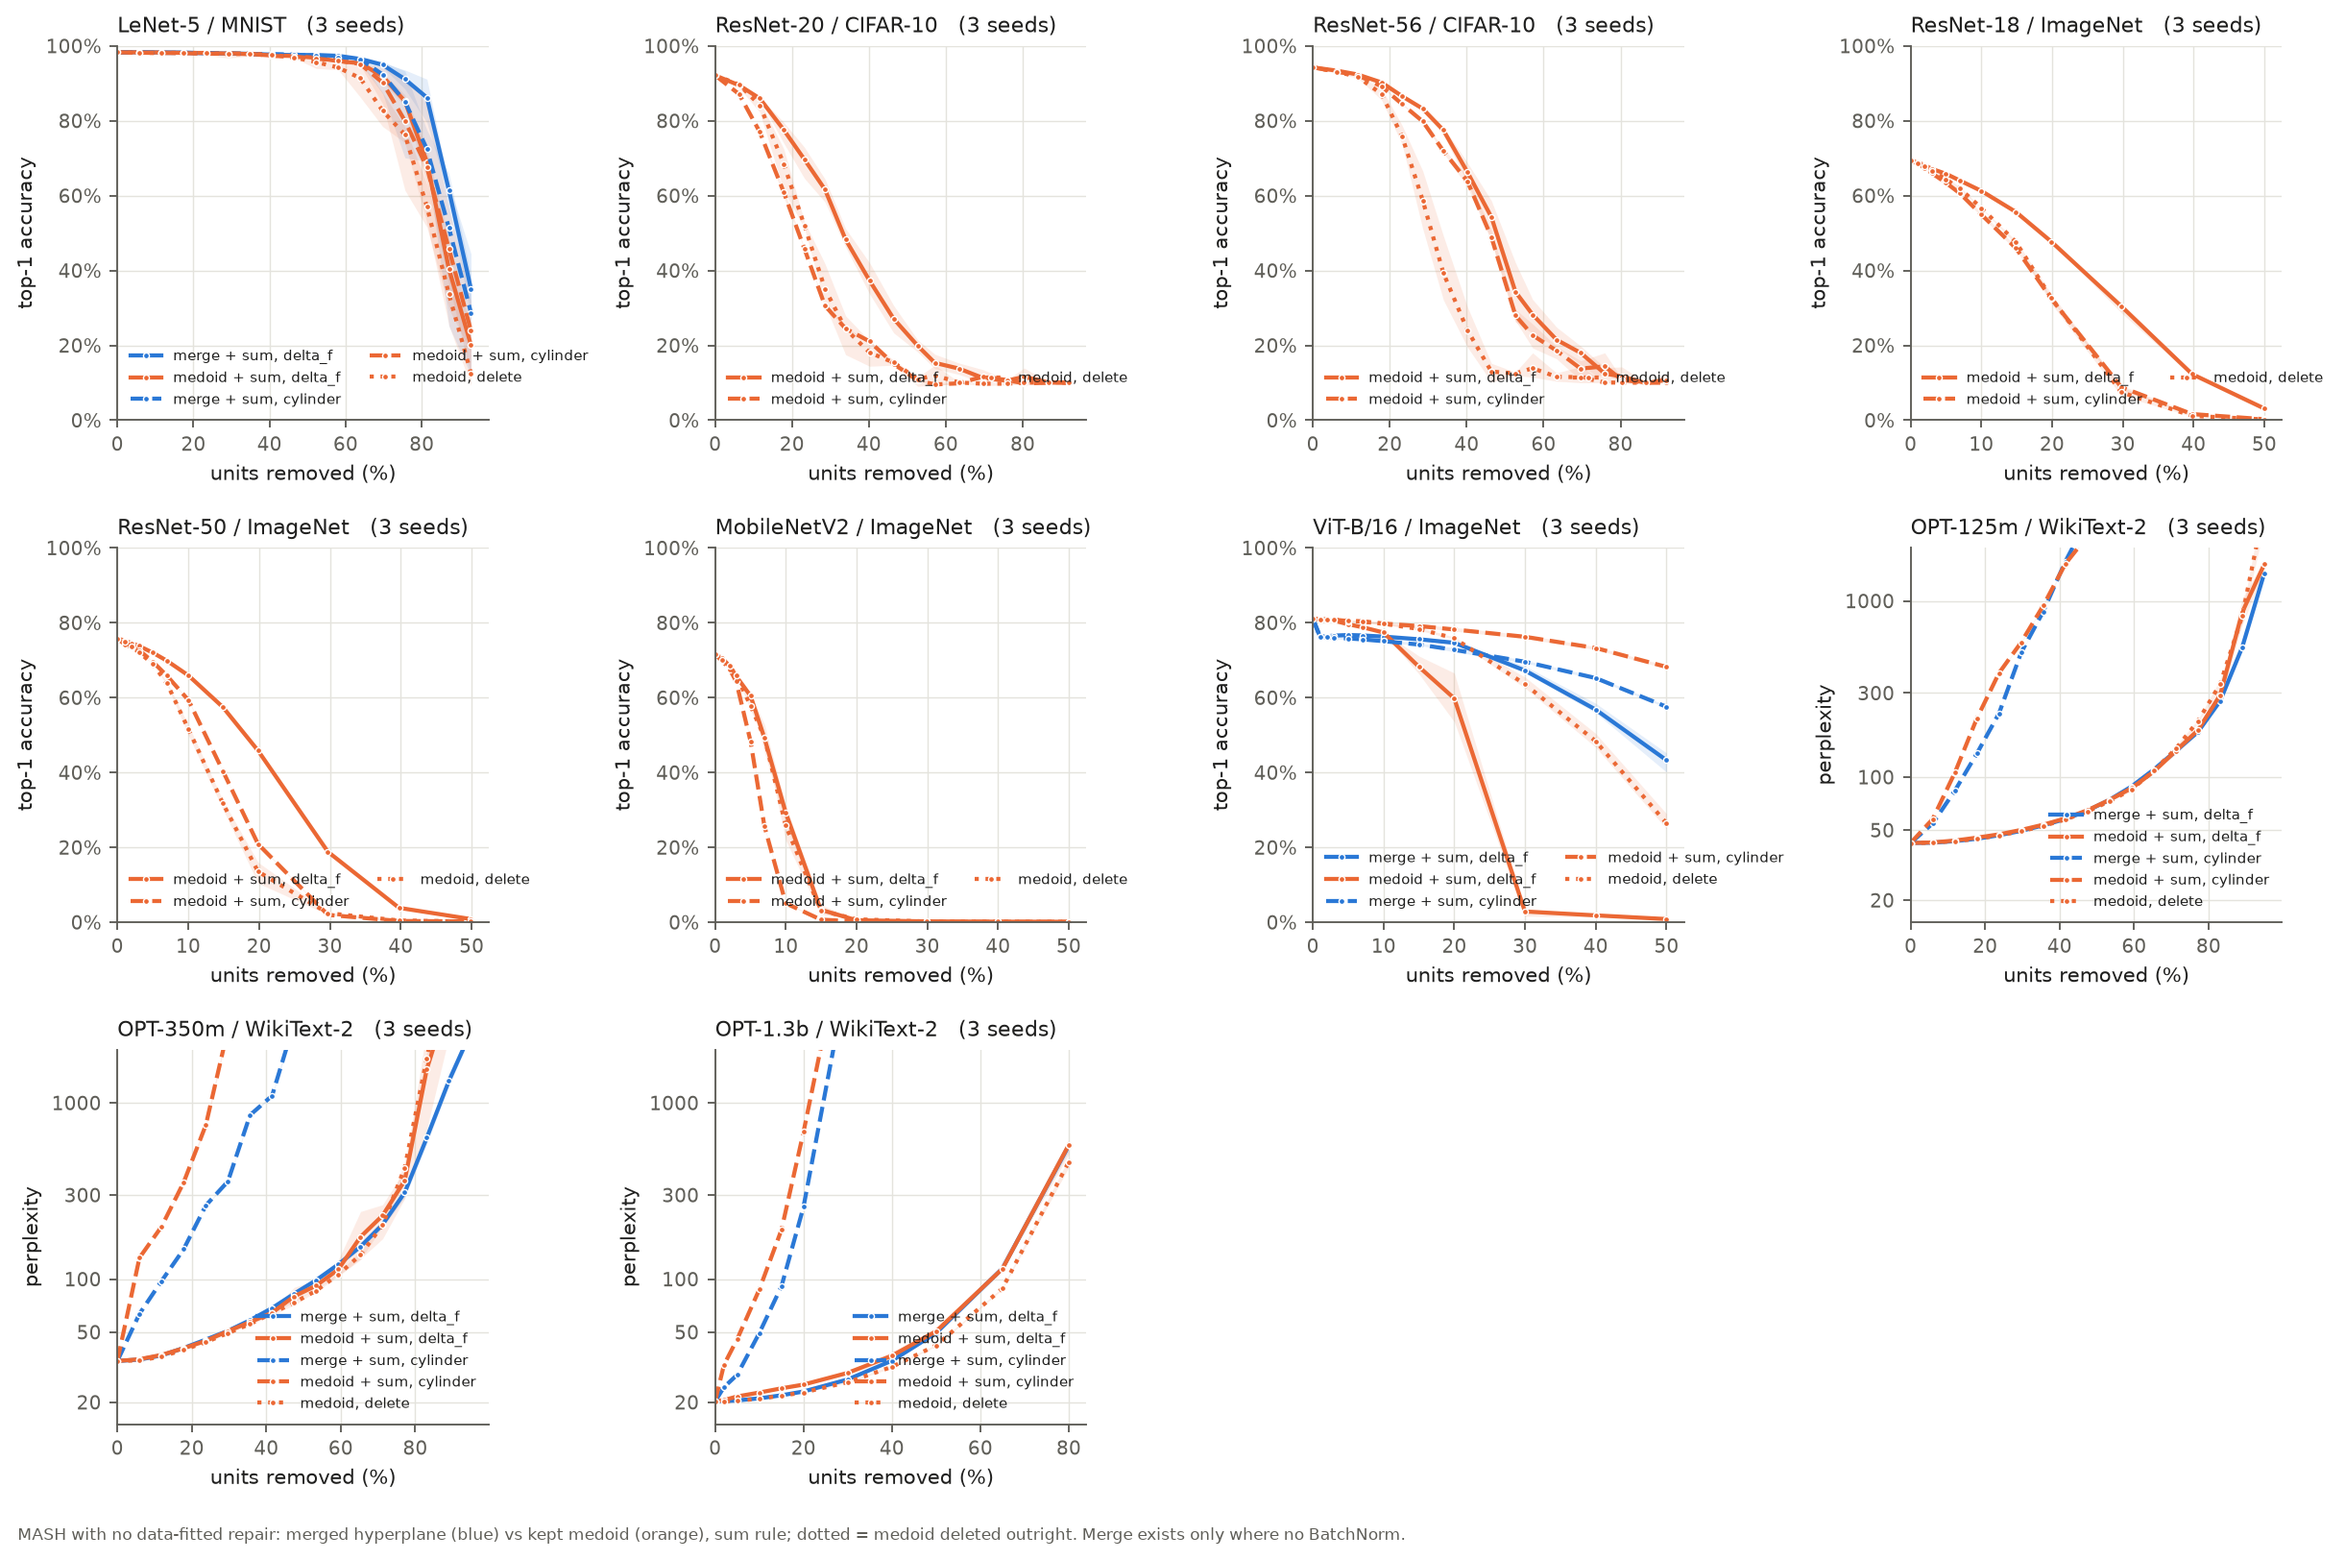
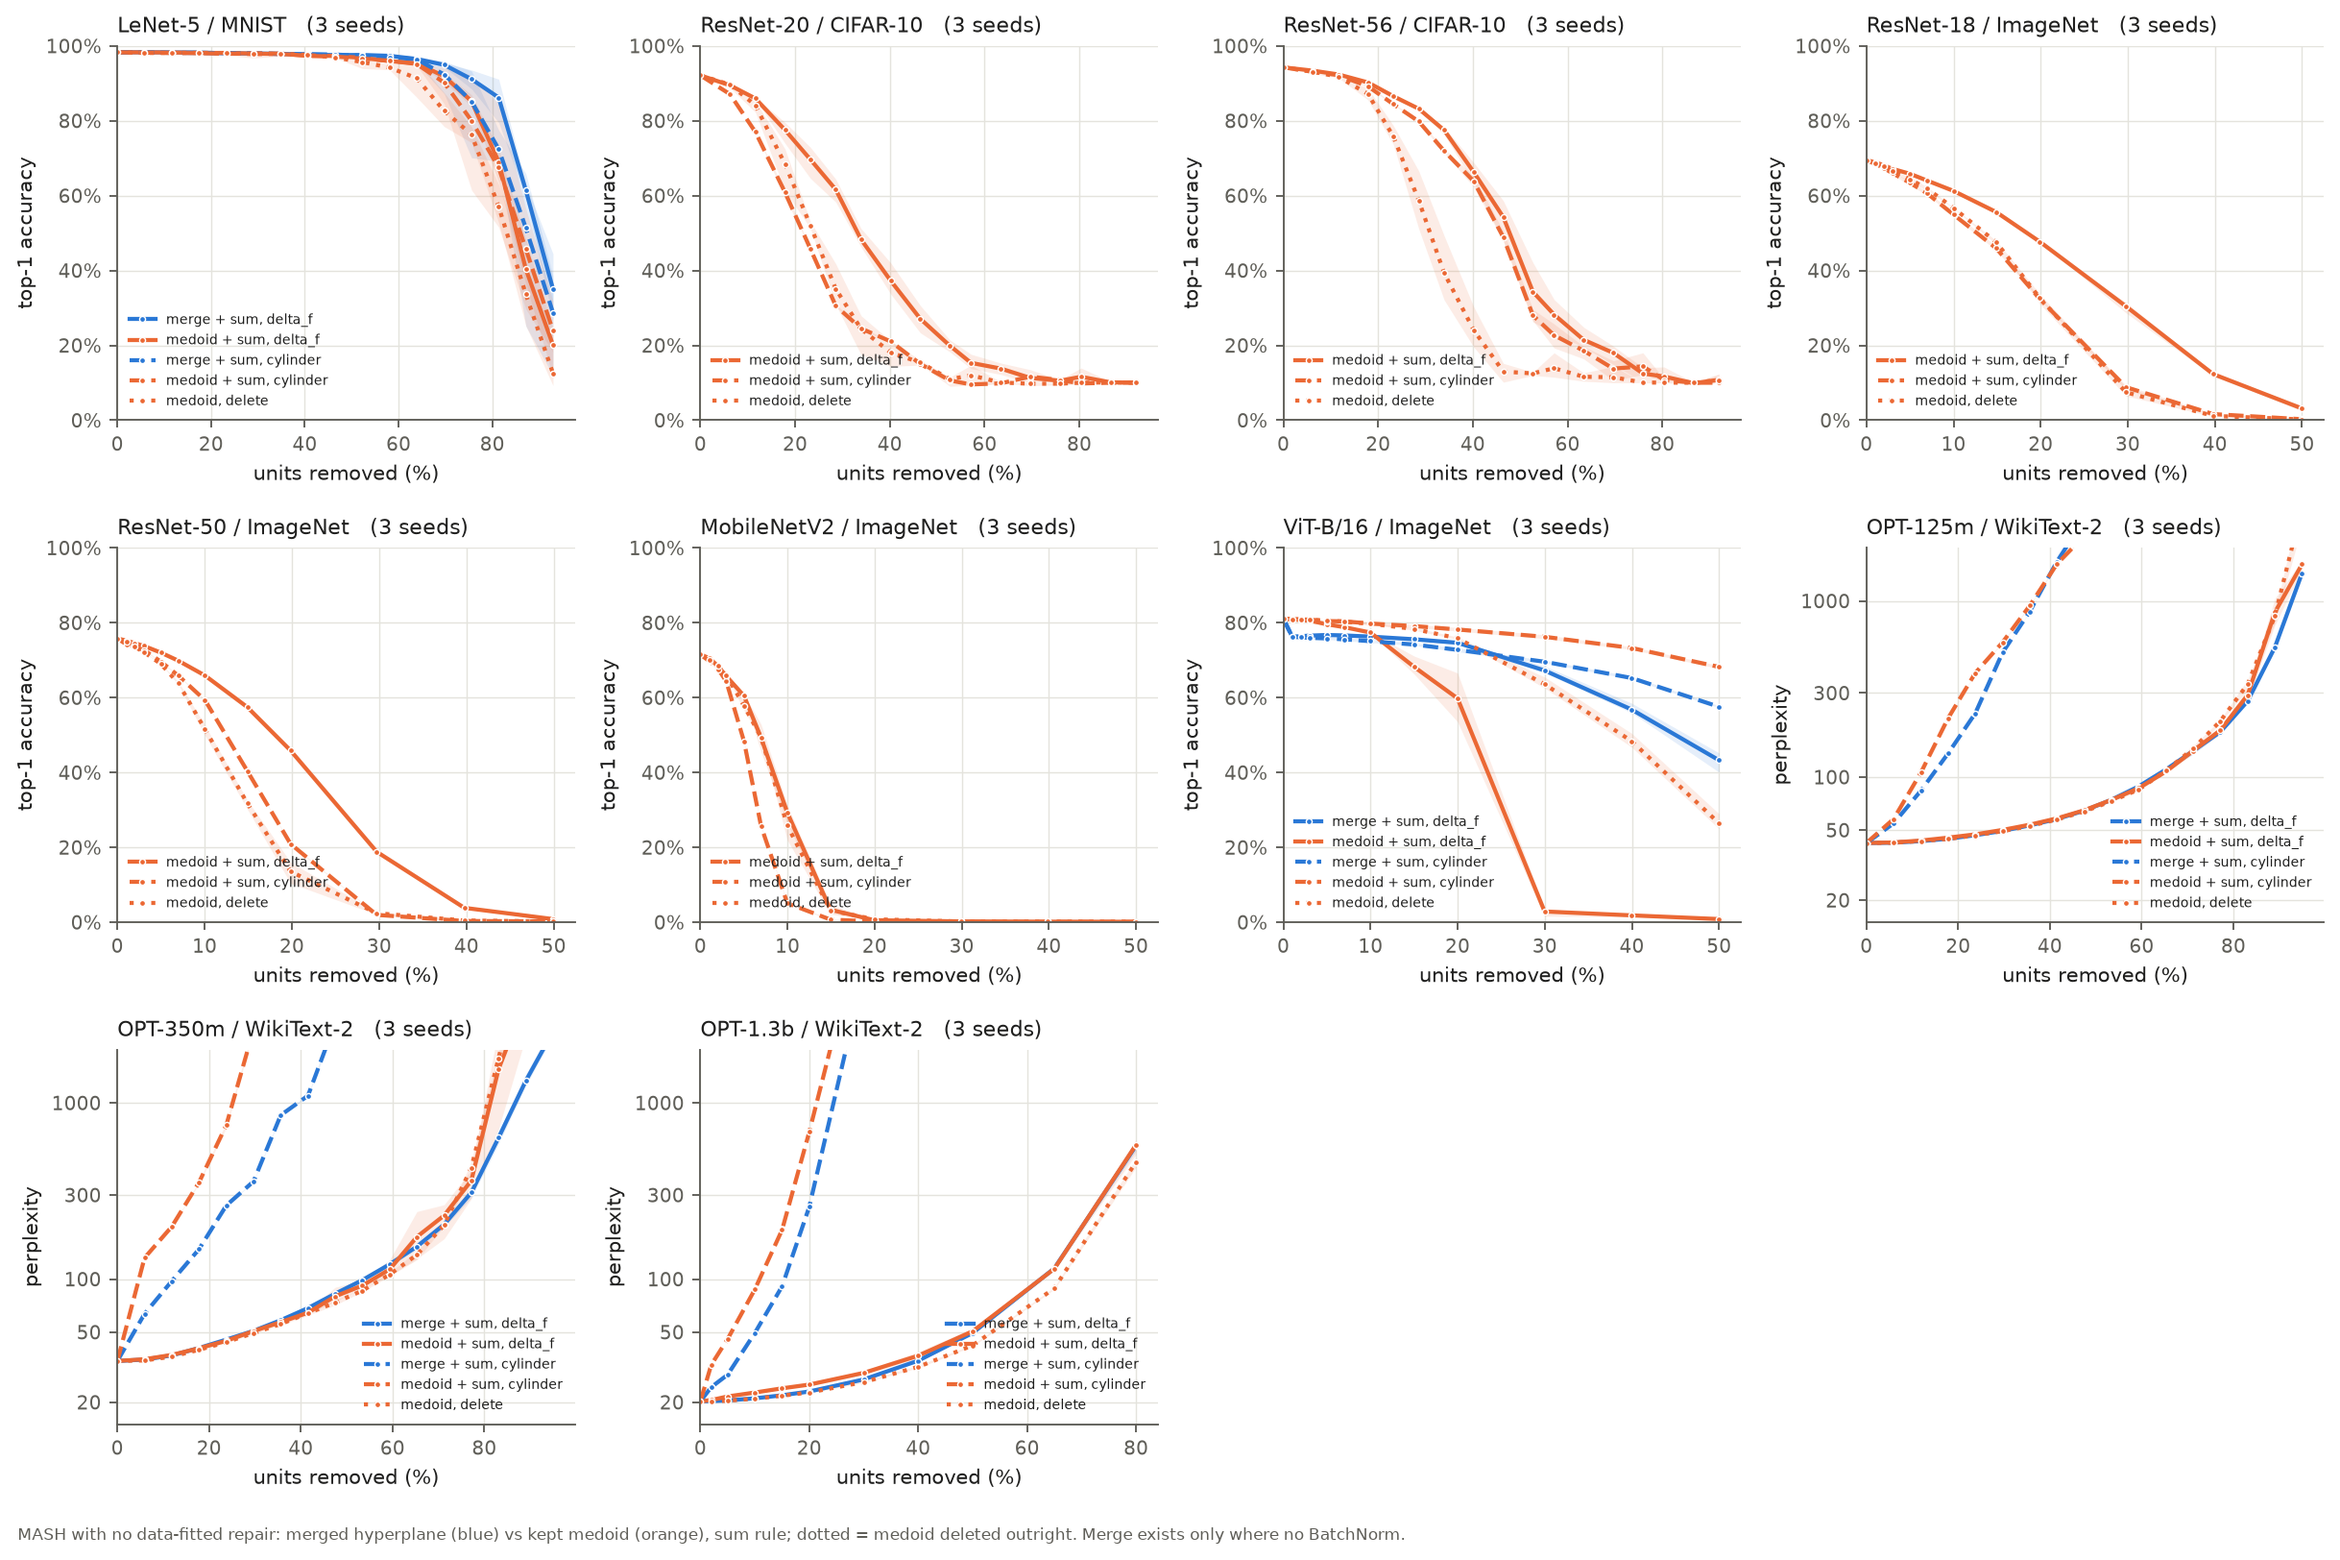
Preliminary figures with the full-row repair and drop ablation

diff --git a/paper/preliminary/make_preliminary.py b/paper/preliminary/make_preliminary.py
@@ -116,8 +116,8 @@ def curves_figure(name, note, arms_for, models=MODELS, ncol=4):
             n_seeds = max(n_seeds, int(d.n.max()))
         style(ax, title, metric, n_seeds)
         if n_seeds:
-            ax.legend(frameon=False, fontsize=6.3, ncol=1 if metric == "ppl" else 2,
-                      handlelength=2.2, loc="lower right" if metric == "ppl" else "lower left")
+            ax.legend(frameon=False, fontsize=5.8, ncol=1, handlelength=2.0,
+                      loc="lower right" if metric == "ppl" else "lower left")
     for ax in axes.flat[len(models):]:
         ax.axis("off")
     fig.text(0.01, -0.01, note, fontsize=7, color=INK2, ha="left", va="top")
@@ -129,11 +129,12 @@ def curves_figure(name, note, arms_for, models=MODELS, ncol=4):
 
 def repaired(m):
     dc = dict_for(m)
-    return [("random + ridge repair", "random_ridge", "-", "random"),
-            ("magnitude + ridge repair", "magnitude_mass_ridge", "-", "magnitude"),
+    return [("random + ridge", "random_ridge", "-", "random"),
+            ("magnitude + ridge", "magnitude_mass_ridge", "-", "magnitude"),
             ("OSSCAR (own repair)", "osscar", "-", "OSSCAR"),
-            (f"MASH delta_f ({dc}) + ridge", f"mash_ridge_{dc}_empirical_delta_f", "-", "MASH delta_f"),
-            (f"MASH cylinder ({dc}) + ridge", f"mash_ridge_{dc}_empirical_cylinder", "-", "MASH cylinder")]
+            (f"MASH delta_f {dc}, ridge 20k rows", f"mash_ridge_{dc}_empirical_delta_f", "--", "MASH delta_f"),
+            ("MASH delta_f medoid+sum, ridge all rows", "mash_full_medoid_empirical_delta_f", "-", "MASH delta_f"),
+            ("MASH cylinder medoid+sum, ridge all rows", "mash_full_medoid_empirical_cylinder", "-", "MASH cylinder")]
 
 
 def norepair(m):
@@ -167,6 +168,8 @@ def dictionary(m):
 TIMING_MODELS = ["wikitext_opt350m", "imagenet_vit_b16", "imagenet_resnet50", "wikitext_opt1.3b",
                  "wikitext_opt2.7b", "wikitext_opt6.7b"]
 TIMING_ARMS = [("random", "random_ridge"), ("magnitude", "magnitude_mass_ridge"),
+               ("MASH full-row ridge", "mash_full_medoid_empirical_delta_f"),
+               ("MASH drop", "mash_drop_none_delta_f"),
                ("OSSCAR", "osscar"), ("MASH delete", "mash_medoid_none_delta_f"),
                ("MASH merge+sum", "mash_merge_sum_delta_f"),
                ("MASH medoid+sum", "mash_medoid_sum_delta_f"),

diff --git a/paper/TODO.md b/paper/TODO.md
@@ -16,7 +16,7 @@ Legend: `3/3` seeds done / wanted, `--` unrunnable by construction, `ARM?` arm n
 
 | arm | mnist_lenet | c10_resnet20 | c10_resnet56 | in_resnet18 | in_resnet50 | in_mobilenetv2 | in_vit_b16 | opt125m | opt350m | opt1.3b | opt2.7b | opt6.7b |
 |---|---|---|---|---|---|---|---|---|---|---|---|---|
-| mash_full_medoid_empirical_delta_f | 0/3 | 0/3 | 0/3 | 0/3 | 0/3 | 0/3 | 0/3 | 0/3 | 0/3 | 0/3 | 0/1 | 0/1 |
+| mash_full_medoid_empirical_delta_f | **3/3** | **3/3** | **3/3** | **3/3** | **3/3** | **3/3** | **3/3** | **3/3** | **3/3** | **3/3** | 0/1 | 0/1 |
 | mash_ridge_medoid_empirical_delta_f | **3/3** | **3/3** | **3/3** | **3/3** | **3/3** | **3/3** | **3/3** | **3/3** | **3/3** | **3/3** | -- | -- |
 | mash_ridge_merge_empirical_delta_f | **3/3** | -- | -- | -- | -- | -- | **3/3** | **3/3** | **3/3** | **3/3** | 0/1 | 0/1 |
 | osscar | **3/3** | **3/3** | **3/3** | **3/3** | **3/3** | **3/3** | **3/3** | **3/3** | **3/3** | **3/3** | 0/1 | 0/1 |
@@ -31,7 +31,7 @@ Legend: `3/3` seeds done / wanted, `--` unrunnable by construction, `ARM?` arm n
 | magnitude_mass | **3/3** | **3/3** | **3/3** | **3/3** | **3/3** | **3/3** | **3/3** | **3/3** | **3/3** | **3/3** | 0/1 | 0/1 |
 | osscar_norepair | **3/3** | **3/3** | **3/3** | **3/3** | **3/3** | **3/3** | **3/3** | **3/3** | **3/3** | **3/3** | 0/1 | 0/1 |
 | mash_medoid_none_delta_f | **3/3** | **3/3** | **3/3** | **3/3** | **3/3** | **3/3** | **3/3** | **3/3** | **3/3** | **3/3** | 0/1 | 0/1 |
-| mash_drop_none_delta_f | 0/3 | 0/3 | 0/3 | 0/3 | 0/3 | 0/3 | 0/3 | 0/3 | 0/3 | 0/3 | -- | -- |
+| mash_drop_none_delta_f | **3/3** | **3/3** | **3/3** | **3/3** | **3/3** | **3/3** | **3/3** | **3/3** | **3/3** | **3/3** | -- | -- |
 | mash_medoid_sum_delta_f | **3/3** | **3/3** | **3/3** | **3/3** | **3/3** | **3/3** | **3/3** | **3/3** | **3/3** | **3/3** | 0/1 | 0/1 |
 | mash_merge_sum_delta_f | **3/3** | -- | -- | -- | -- | -- | **3/3** | **3/3** | **3/3** | **3/3** | 0/1 | 0/1 |
 
@@ -40,7 +40,7 @@ Legend: `3/3` seeds done / wanted, `--` unrunnable by construction, `ARM?` arm n
 | arm | mnist_lenet | c10_resnet20 | c10_resnet56 | in_resnet18 | in_resnet50 | in_mobilenetv2 | in_vit_b16 | opt125m | opt350m | opt1.3b | opt2.7b | opt6.7b |
 |---|---|---|---|---|---|---|---|---|---|---|---|---|
 | osscar | **3/3** | **3/3** | **3/3** | **3/3** | **3/3** | **3/3** | **3/3** | **3/3** | **3/3** | **3/3** | 0/1 | 0/1 |
-| mash_full_medoid_empirical_delta_f | 0/3 | 0/3 | 0/3 | 0/3 | 0/3 | 0/3 | 0/3 | 0/3 | 0/3 | 0/3 | 0/1 | 0/1 |
+| mash_full_medoid_empirical_delta_f | **3/3** | **3/3** | **3/3** | **3/3** | **3/3** | **3/3** | **3/3** | **3/3** | **3/3** | **3/3** | 0/1 | 0/1 |
 | mash_ridge_merge_empirical_delta_f | **3/3** | -- | -- | -- | -- | -- | **3/3** | **3/3** | **3/3** | **3/3** | 0/1 | 0/1 |
 | mash_ridge_medoid_empirical_delta_f | **3/3** | **3/3** | **3/3** | **3/3** | **3/3** | **3/3** | **3/3** | **3/3** | **3/3** | **3/3** | -- | -- |
 | random_ridge | **3/3** | **3/3** | **3/3** | **3/3** | **3/3** | **3/3** | **3/3** | **3/3** | **3/3** | **3/3** | 0/1 | 0/1 |
@@ -66,24 +66,24 @@ Legend: `3/3` seeds done / wanted, `--` unrunnable by construction, `ARM?` arm n
 | mash_medoid_sum_cylinder | **3/3** | **3/3** | **3/3** | **3/3** | **3/3** | **3/3** | **3/3** | **3/3** | **3/3** | **3/3** | -- | -- |
 | mash_ridge_merge_empirical_cylinder | **3/3** | -- | -- | -- | -- | -- | **3/3** | **3/3** | **3/3** | **3/3** | -- | -- |
 | mash_ridge_medoid_empirical_cylinder | **3/3** | **3/3** | **3/3** | **3/3** | **3/3** | **3/3** | **3/3** | **3/3** | **3/3** | **3/3** | -- | -- |
-| mash_full_medoid_empirical_cylinder | 0/3 | 0/3 | 0/3 | 0/3 | 0/3 | 0/3 | 0/3 | 0/3 | 0/3 | 0/3 | -- | -- |
+| mash_full_medoid_empirical_cylinder | **3/3** | **3/3** | **3/3** | **3/3** | **3/3** | **3/3** | **3/3** | **3/3** | **3/3** | **3/3** | -- | -- |
 
 ## Cells still to run (any claim), by model
 
-- **mnist_lenet** (3 cells, 9 seed-runs): mash_drop_none_delta_f (+3), mash_full_medoid_empirical_cylinder (+3), mash_full_medoid_empirical_delta_f (+3)
-- **cifar10_resnet20** (3 cells, 9 seed-runs): mash_drop_none_delta_f (+3), mash_full_medoid_empirical_cylinder (+3), mash_full_medoid_empirical_delta_f (+3)
-- **cifar10_resnet56** (3 cells, 9 seed-runs): mash_drop_none_delta_f (+3), mash_full_medoid_empirical_cylinder (+3), mash_full_medoid_empirical_delta_f (+3)
-- **imagenet_resnet18** (3 cells, 9 seed-runs): mash_drop_none_delta_f (+3), mash_full_medoid_empirical_cylinder (+3), mash_full_medoid_empirical_delta_f (+3)
-- **imagenet_resnet50** (3 cells, 9 seed-runs): mash_drop_none_delta_f (+3), mash_full_medoid_empirical_cylinder (+3), mash_full_medoid_empirical_delta_f (+3)
-- **imagenet_mobilenetv2** (3 cells, 9 seed-runs): mash_drop_none_delta_f (+3), mash_full_medoid_empirical_cylinder (+3), mash_full_medoid_empirical_delta_f (+3)
-- **imagenet_vit_b16** (3 cells, 9 seed-runs): mash_drop_none_delta_f (+3), mash_full_medoid_empirical_cylinder (+3), mash_full_medoid_empirical_delta_f (+3)
-- **wikitext_opt125m** (3 cells, 9 seed-runs): mash_drop_none_delta_f (+3), mash_full_medoid_empirical_cylinder (+3), mash_full_medoid_empirical_delta_f (+3)
-- **wikitext_opt350m** (3 cells, 9 seed-runs): mash_drop_none_delta_f (+3), mash_full_medoid_empirical_cylinder (+3), mash_full_medoid_empirical_delta_f (+3)
-- **wikitext_opt1.3b** (5 cells, 13 seed-runs): mash_drop_none_delta_f (+3), mash_full_medoid_empirical_cylinder (+3), mash_full_medoid_empirical_delta_f (+3), mash_gaussian_merge_sum_delta_f (+2), mash_ridge_gaussian_merge_empirical_delta_f (+2)
+- **mnist_lenet**: complete
+- **cifar10_resnet20**: complete
+- **cifar10_resnet56**: complete
+- **imagenet_resnet18**: complete
+- **imagenet_resnet50**: complete
+- **imagenet_mobilenetv2**: complete
+- **imagenet_vit_b16**: complete
+- **wikitext_opt125m**: complete
+- **wikitext_opt350m**: complete
+- **wikitext_opt1.3b** (2 cells, 4 seed-runs): mash_gaussian_merge_sum_delta_f (+2), mash_ridge_gaussian_merge_empirical_delta_f (+2)
 - **wikitext_opt2.7b** (12 cells, 12 seed-runs): magnitude_mass (+1), magnitude_mass_ridge (+1), mash_full_medoid_empirical_delta_f (+1), mash_medoid_none_delta_f (+1), mash_medoid_sum_delta_f (+1), mash_merge_sum_cylinder (+1), mash_merge_sum_delta_f (+1), mash_ridge_merge_empirical_delta_f (+1), osscar (+1), osscar_norepair (+1), random (+1), random_ridge (+1)
 - **wikitext_opt6.7b** (12 cells, 12 seed-runs): magnitude_mass (+1), magnitude_mass_ridge (+1), mash_full_medoid_empirical_delta_f (+1), mash_medoid_none_delta_f (+1), mash_medoid_sum_delta_f (+1), mash_merge_sum_cylinder (+1), mash_merge_sum_delta_f (+1), mash_ridge_merge_empirical_delta_f (+1), osscar (+1), osscar_norepair (+1), random (+1), random_ridge (+1)
 
-**118 seed-runs missing in total.**
+**28 seed-runs missing in total.**
 
 ## Analysis figures (not benchmark cells)
 
